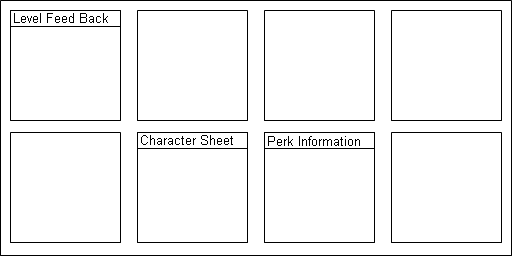
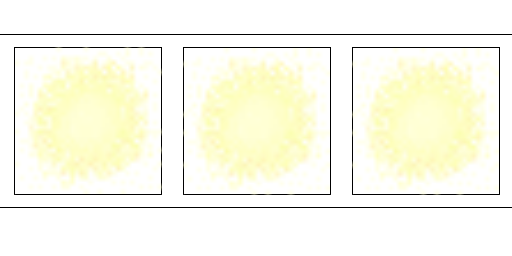
slotMachine design adjustments

diff --git a/SwampMonster/src/com/me/swampmonster/slotMachineStuff/SlotMachineTextures.java b/SwampMonster/src/com/me/swampmonster/slotMachineStuff/SlotMachineTextures.java
@@ -9,6 +9,7 @@ import java.util.Set;
 
 import com.badlogic.gdx.Gdx;
 import com.badlogic.gdx.graphics.Color;
+import com.badlogic.gdx.graphics.g2d.Animation;
 import com.badlogic.gdx.graphics.g2d.BitmapFont;
 import com.badlogic.gdx.graphics.g2d.Sprite;
 import com.badlogic.gdx.graphics.g2d.SpriteBatch;
@@ -17,6 +18,7 @@ import com.badlogic.gdx.graphics.glutils.ShapeRenderer.ShapeType;
 import com.badlogic.gdx.math.Rectangle;
 import com.badlogic.gdx.math.Vector2;
 import com.badlogic.gdx.scenes.scene2d.Group;
+import com.me.swampmonster.animations.AnimationControl;
 import com.me.swampmonster.models.Player;
 import com.me.swampmonster.models.slots.Slot;
 import com.me.swampmonster.utils.Assets;
@@ -30,8 +32,8 @@ public class SlotMachineTextures extends Group {
 	private static SlotsGenerator slotsGen;
 	public Set<Slot> slots;
 	public Map<Integer, Sprite> slotLevelPic;
-	int [] slotPositionsX = {285, 415, 540};
-	int slotPositionY = 250;
+	int [] slotPositionsX = {159, 328, 497};
+	int slotPositionY = 174;
 	public Sprite slotMachineWindow;
 	public Sprite slotMachineWindowYes;
 	public Sprite slotMachineWindowNo;
@@ -42,10 +44,12 @@ public class SlotMachineTextures extends Group {
 	public Sprite slotLevel5;
 	public Rectangle yes;
 	public Rectangle no;
+	public AnimationControl animantionCtlr;
+	public boolean[] notAnimating;
 	public boolean peru;
 	public Slot selectedSlot;
 	public int selectedSlotNumber;
-	public Sprite backGround = new Sprite(Assets.manager.get(Assets.slotBackGround));
+	public int animCounter;
 	
 	public SlotMachineTextures(Player player) {
 		this.p = player;
@@ -55,6 +59,9 @@ public class SlotMachineTextures extends Group {
 		slotMachineWindow = new Sprite(Assets.manager.get(Assets.slotMachineWindow));
 		slotMachineWindowYes = new Sprite(Assets.manager.get(Assets.slotMachineWindowYes));
 		slotMachineWindowNo = new Sprite(Assets.manager.get(Assets.slotMachineWindowNo));
+		
+		animantionCtlr = new AnimationControl(Assets.manager.get(Assets.slotAnimation), 8, 1, 8);
+		notAnimating = new boolean[3];
 		
 		slotLevel1 = new Sprite(Assets.manager.get(Assets.slotLevel1));
 		slotLevel2 = new Sprite(Assets.manager.get(Assets.slotLevel2));
@@ -110,69 +117,75 @@ public class SlotMachineTextures extends Group {
 		super.draw(batch, parentAlpha);
 		batch.draw(Assets.manager
 				.get(Assets.slotMachineCase), 144, 112);
-		batch.draw(Assets.manager
-				.get(Assets.slotMachineNextButton), 535, 125,
-				0.10f * Gdx.graphics.getWidth(), 0.20f * Gdx.graphics
-						.getHeight());
-		batch.end();
 		
 		
-		sr.begin(ShapeType.Filled);
-		sr.setColor(Color.WHITE);
-		for (Slot slot : slots){
-			sr.rect(slot.sprite.getBoundingRectangle().x,
-					slot.sprite.getBoundingRectangle().y,
-					slot.sprite.getBoundingRectangle().width,
-					slot.sprite.getBoundingRectangle().height);
-		}
-		sr.end();
-		batch.begin();
+		animantionCtlr.doComplexAnimation(0,
+				1f, Gdx.graphics.getDeltaTime(), Animation.NORMAL);
 		
-		for(Slot slot : slots){
-			batch.draw(backGround,
-			slot.sprite.getBoundingRectangle().x, 
-			slot.sprite.getBoundingRectangle().y, 
-			slot.sprite.getBoundingRectangle().width, 
-			slot.sprite.getBoundingRectangle().height);	
-		}
 
 		int i = 0;
-		Iterator<Slot> itr = slots.iterator();
-		while (itr.hasNext()){
-			Slot slot = itr.next();
-			slot.sprite.setPosition(slotPositionsX[i], slotPositionY);
-			i++;
-			slot.sprite.setSize(100, 100);
-			slot.sprite.draw(batch);
-			try {
-				Sprite s = new Sprite(slotLevelPic.get(slot.getClass().getField("level").getInt(null)));
-				s.setPosition(slot.sprite.getX(), slot.sprite.getY());
-				s.setSize(16, 16);
-				s.draw(batch);
+//		Iterator<Slot> itr = slots.iterator();
+		Slot[] temps = new Slot[3]; 
+		temps = slots.toArray(temps); 
+		while (i<3) {
+			if (notAnimating[i]) {
 				
-			} catch (Exception e) {
-				e.printStackTrace();
+				
+				Slot slot = temps[i];
+				slot.sprite.setPosition(slotPositionsX[i], slotPositionY);
+				i++;
+				slot.sprite.setSize(146, 146);
+				slot.sprite.draw(batch);
+				try {
+					Sprite s = new Sprite(slotLevelPic.get(slot.getClass()
+							.getField("level").getInt(null)));
+					s.setPosition(slot.sprite.getX(), slot.sprite.getY());
+					s.setSize(32, 32);
+					s.draw(batch);
+
+				} catch (Exception e) {
+					e.printStackTrace();
+				}
 			}
-			
+			else
+			{
+				batch.draw(animantionCtlr.getCurrentFrame(), slotPositionsX[i], slotPositionY, 146, 146);
+				animCounter++;
+				
+				if(animCounter == 100){
+					notAnimating[i] = true;
+				}
+				if(animCounter == 250){
+					notAnimating[i] = true;
+				}
+				if(animCounter == 200){
+					notAnimating[i] = true;
+				}
+				i++;
+			}
 		}
+		
 		font.setColor(Color.BLACK);
 		font.setScale(0.5f, 0.5f);
-		font.draw(batch, "MaxHP: " + p.getMaxHealth(), 284, 215);
-		font.draw(batch, "MaxO2: " + p.maxOxygen, 284, 200);
-		font.draw(batch, "Damage: " + p.damage, 284, 185);
-		font.draw(batch, "AS: " + p.shotCoolDown, 284, 170);
-		font.draw(batch, "Score: " + p.points, 156, 338);
+//		font.draw(batch, "MaxHP: " + p.getMaxHealth(), 284, 215);
+//		font.draw(batch, "MaxO2: " + p.maxOxygen, 284, 200);
+//		font.draw(batch, "Damage: " + p.damage, 284, 185);
+//		font.draw(batch, "AS: " + p.shotCoolDown, 284, 170);
+//		font.draw(batch, "Score: " + p.points, 156, 338);
 		
 		if (peru) {
+			slotMachineWindow.setSize(Constants.VIEWPORT_WIDTH/2.1f, Constants.VIEWPORT_HEIGHT/1.4f);
 			slotMachineWindow.draw(batch);
-			slotMachineWindow.setPosition(Constants.VIEWPORT_WIDTH/3, Constants.VIEWPORT_GUI_HEIGHT/3);
+			slotMachineWindow.setPosition(Constants.VIEWPORT_WIDTH/3.5f, Constants.VIEWPORT_GUI_HEIGHT/7);
+			slotMachineWindowYes.setSize(90,90);
 			slotMachineWindowYes.draw(batch);
-			slotMachineWindowYes.setPosition(Constants.VIEWPORT_WIDTH/3 + 10, Constants.VIEWPORT_GUI_HEIGHT/3);			
+			slotMachineWindowYes.setPosition(Constants.VIEWPORT_WIDTH/3.5f + 10, Constants.VIEWPORT_GUI_HEIGHT/6.5f);			
 			yes.setPosition(new Vector2(slotMachineWindowYes.getX(), slotMachineWindowYes.getY()));
+			slotMachineWindowNo.setSize(90,90);
 			slotMachineWindowNo.draw(batch);
-			slotMachineWindowNo.setPosition(Constants.VIEWPORT_WIDTH/3+192, Constants.VIEWPORT_GUI_HEIGHT/3);
+			slotMachineWindowNo.setPosition(Constants.VIEWPORT_WIDTH/1.575f, Constants.VIEWPORT_GUI_HEIGHT/6.5f);
 			no.setPosition(new Vector2(slotMachineWindowNo.getX(), slotMachineWindowNo.getY()));
-			font.draw(batch, selectedSlot.description, slotMachineWindow.getBoundingRectangle().x+25, slotMachineWindow.getBoundingRectangle().y+100);
+			font.draw(batch, selectedSlot.description, slotMachineWindow.getBoundingRectangle().x+25, slotMachineWindow.getBoundingRectangle().y+200);
 			
 		}
 		

diff --git a/SwampMonster/src/com/me/swampmonster/utils/Assets.java b/SwampMonster/src/com/me/swampmonster/utils/Assets.java
@@ -35,7 +35,6 @@ public class Assets {
 	public static final AssetDescriptor<Texture> weaponizerButton = new AssetDescriptor<Texture>("data\\Weaponizer.png", Texture.class);
 	public static final AssetDescriptor<Texture> tiles = new AssetDescriptor<Texture>("data\\Tiles.png", Texture.class);
 	public static final AssetDescriptor<Texture> slotMachineCase = new AssetDescriptor<Texture>("data\\slotMachineUI\\slotMachineCase.png", Texture.class);
-	public static final AssetDescriptor<Texture> slotMachineNextButton = new AssetDescriptor<Texture>("data\\slotMachineUI\\slotMachineNextButton.png", Texture.class);
 	public static final AssetDescriptor<Texture> FADE_ICON = new AssetDescriptor<Texture>("data\\slotIcons\\shield.png", Texture.class);
 	public static final AssetDescriptor<Texture> RADIOACTIVE_AURA_ICON = new AssetDescriptor<Texture>("data\\slotIcons\\RADIOACTIVE_AURA_ICON.png", Texture.class);
 	public static final AssetDescriptor<Texture> SPEED_BOOST_ICON = new AssetDescriptor<Texture>("data\\slotIcons\\SPEED_BOOST_ICON.png", Texture.class);
@@ -44,7 +43,6 @@ public class Assets {
 	public static final AssetDescriptor<Texture> SHADOW_ARROW_ICON = new AssetDescriptor<Texture>("data\\slotIcons\\SHADOW_ARROW_ICON.png", Texture.class);
 	public static final AssetDescriptor<Texture> POISONED_ARROW_ICON = new AssetDescriptor<Texture>("data\\slotIcons\\poisonedArrow.png", Texture.class);
 	public static final AssetDescriptor<Texture> DAMAGE_TRAP_ICON = new AssetDescriptor<Texture>("data\\slotIcons\\DAMAGE_TRAP_ICON.png", Texture.class);
-	public static final AssetDescriptor<Texture> slotBackGround = new AssetDescriptor<Texture>("data\\slotIcons\\slotBackGround.png", Texture.class);
 	public static final AssetDescriptor<Texture> EXPLOSIVE_TRAP_ICON = new AssetDescriptor<Texture>("data\\slotIcons\\explosive_icon2.png", Texture.class);
 	public static final AssetDescriptor<Texture> POISONED_TRAP_ICON = new AssetDescriptor<Texture>("data\\slotIcons\\poison.png", Texture.class);
 	public static final AssetDescriptor<Texture> FROST_TRAP_ICON = new AssetDescriptor<Texture>("data\\slotIcons\\FROST_TRAP_ICON.png", Texture.class);
@@ -61,6 +59,7 @@ public class Assets {
 	public static final AssetDescriptor<Texture> slotLevel3 = new AssetDescriptor<Texture>("data\\slotIcons\\slotLevel3.png", Texture.class);
 	public static final AssetDescriptor<Texture> slotLevel4 = new AssetDescriptor<Texture>("data\\slotIcons\\slotLevel4.png", Texture.class);
 	public static final AssetDescriptor<Texture> slotLevel5 = new AssetDescriptor<Texture>("data\\slotIcons\\slotLevel5.png", Texture.class);
+	public static final AssetDescriptor<Texture> slotAnimation = new AssetDescriptor<Texture>("data\\slotMachineUI\\slotAnimation.png", Texture.class);
 	public static final AssetDescriptor<Texture> POISON_TRAP = new AssetDescriptor<Texture>("data\\googleSaysItIsAPool.png", Texture.class);
 	public static final AssetDescriptor<Texture> FROZEN_TRAP = new AssetDescriptor<Texture>("data\\Frozen.png", Texture.class);
 	public static final AssetDescriptor<Texture> DAMAGE_TRAP = new AssetDescriptor<Texture>("data\\appleTrap.png", Texture.class);
@@ -94,7 +93,6 @@ public class Assets {
 		manager.load(weaponizerButton);
 		manager.load(tiles);
 		manager.load(slotMachineCase);
-		manager.load(slotMachineNextButton);
 		manager.load(FADE_ICON);
 		manager.load(RADIOACTIVE_AURA_ICON);
 		manager.load(SPEED_BOOST_ICON);
@@ -119,13 +117,13 @@ public class Assets {
 		manager.load(slotLevel3);
 		manager.load(slotLevel4);
 		manager.load(slotLevel5);
+		manager.load(slotAnimation);
 		manager.load(POISON_TRAP);
 		manager.load(FROZEN_TRAP);
 		manager.load(DAMAGE_TRAP);
 		manager.load(slotMachineWindow);
 		manager.load(slotMachineWindowYes);
 		manager.load(slotMachineWindowNo);
-		manager.load(slotBackGround);
 		manager.load(arrowPoisoned);
 		manager.load(arrowExplosive);
 		manager.load(leachProjectile);

diff --git a/SwampMonster/src/com/me/swampmonster/screens/SlotMachineScreen.java b/SwampMonster/src/com/me/swampmonster/screens/SlotMachineScreen.java
@@ -42,7 +42,7 @@ public class SlotMachineScreen extends AbstractGameScreen {
 				- Gdx.input.getY());
 		for (Slot slot : slotMachineTextures.slots) {
 			if (Gdx.input.justTouched()
-					&& slot.sprite.getBoundingRectangle().contains(victor)) {
+					&& slot.sprite.getBoundingRectangle().contains(victor) && slotMachineTextures.notAnimating[0] && slotMachineTextures.notAnimating[1] && slotMachineTextures.notAnimating[2]) {
 				if (!slotMachineTextures.peru) {
 					slotMachineTextures.peru = true;
 					slotMachineTextures.selectedSlot = slot;

diff --git a/SwampMonster/src/com/me/swampmonster/models/Player.java b/SwampMonster/src/com/me/swampmonster/models/Player.java
@@ -133,7 +133,7 @@ public class Player extends AbstractGameObject {
 		// HEALTH, DAMAGE, OXYGEN, TYPE, TOUGHGUY, COLORSCHEME, ETC.
 		maxHealth = 16;
 		health = maxHealth;
-//		maxOxygen = 96;
+		maxOxygen = 96;
 		oxygen = maxOxygen;
 		System.out.println( "cob " + maxOxygen);
 		damage = 1f;
